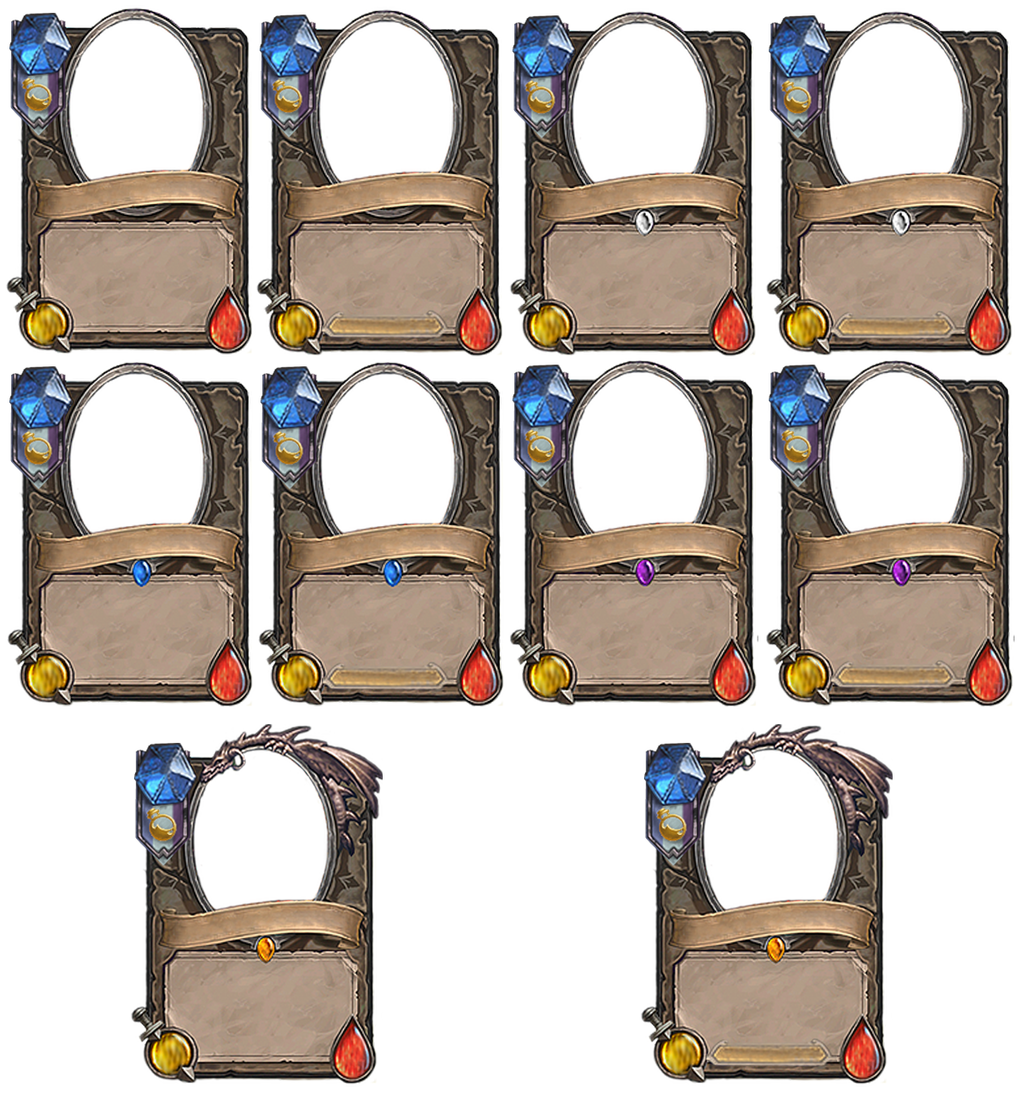
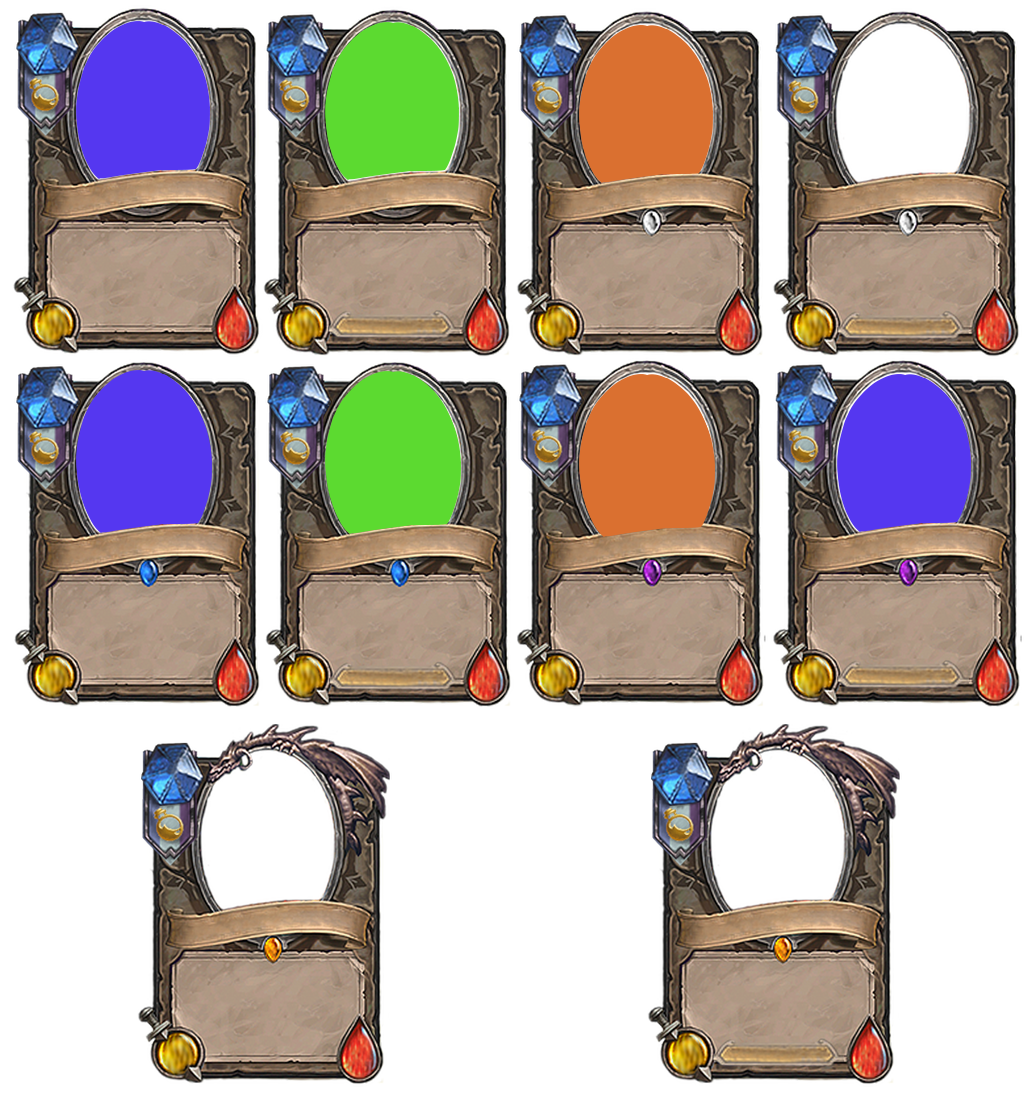
cards colours added

diff --git a/client/public/css/style.css b/client/public/css/style.css
@@ -35,18 +35,6 @@ body {
   padding: 0.2em;
 }
 
-#title-main{
-  grid-area: 1 /1 / 2/ 2;
-
-  color:red;
-
-}
-#title-main:hover{
-
-  color:black;
-
-}
-
 #player-two-table{
   grid-area: 3/ 2/ 4/ 5;
   display: grid;
@@ -82,17 +70,23 @@ body {
   text-align:center;
 }
 
-.mage{background: url(/images/cards2.png);
-background-size: 420px;
-background-position: 0px -150px;}
+.Mage{
+  background: url(/images/cards2.png);
+  background-size: 420px;
+  background-position: 102px -150px;
+}
 
-.fighter{background: url(/images/cards2.png);
-background-size: 420px;
-background-position: 0px -250px;}
+.Fighter{
+  background: url(/images/cards2.png);
+  background-size: 420px;
+  background-position: 313px -150px;
+}
 
-.rogue{{background: url(/images/cards2.png);
-background-size: 420px;
-background-position: 20px -250px;}}
+.Rogue{
+  background: url(/images/cards2.png);
+  background-size: 420px;
+  background-position: 210px -150px;
+}
 
 .playerCard:hover{
   transform: scale(1.1);

diff --git a/client/public/index.html b/client/public/index.html
@@ -15,8 +15,6 @@
 
       <button id="start-game">Start Game</button>
       <!-- <button></button> -->
-      <h1 id="title-main">Card Defenders</h1>
-
       <div id="player-two-charactor"></div>
       <div id="player-two-container"></div>
       <div id="player-two-table"></div>
